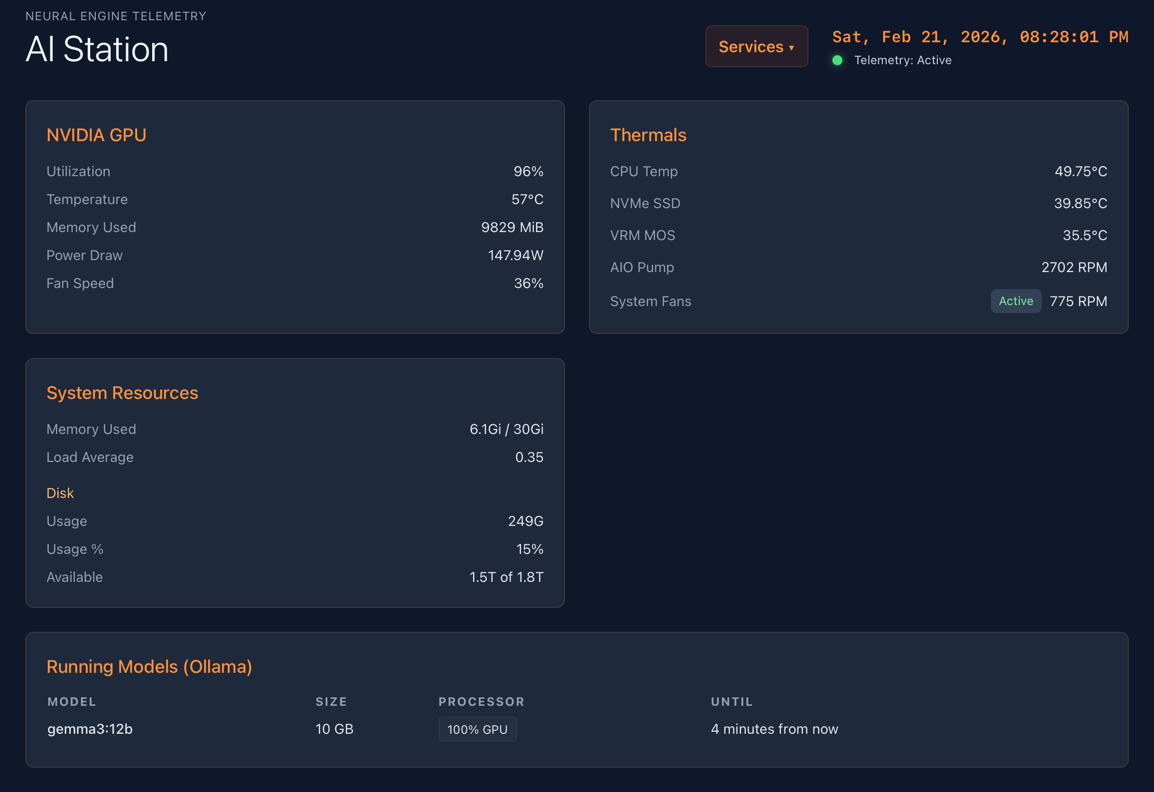
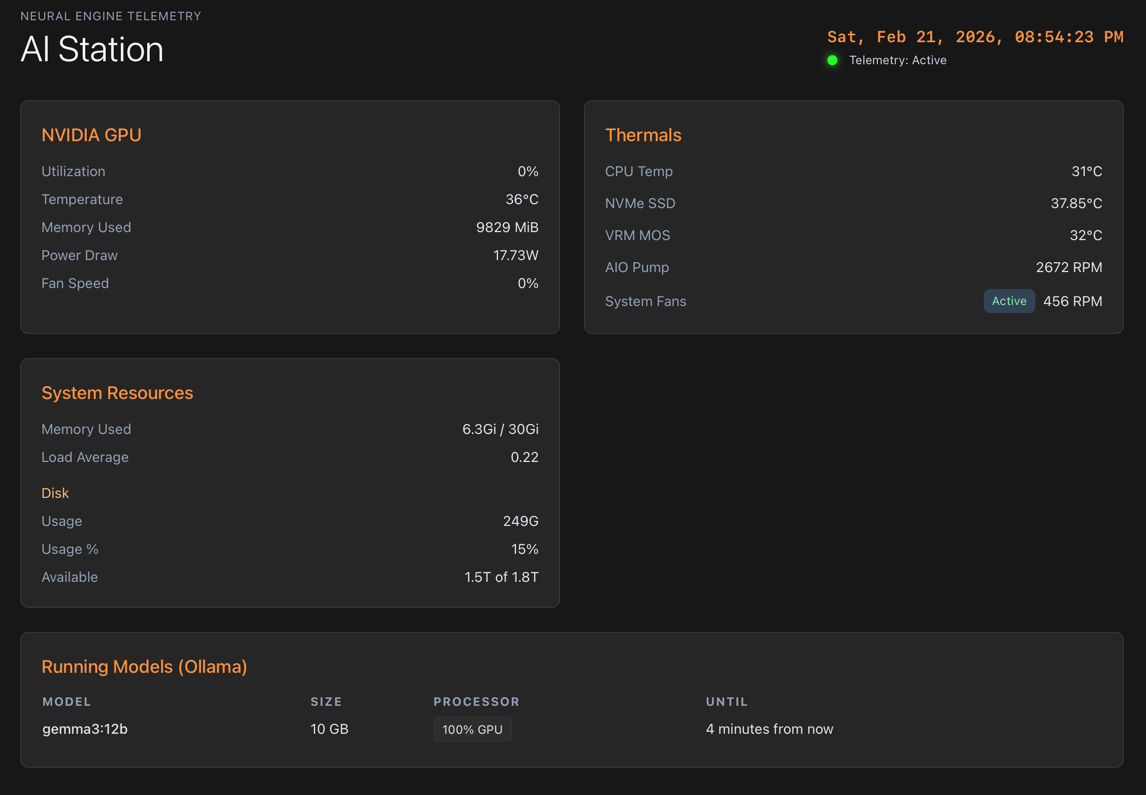
color scheme

diff --git a/public/monitor.html b/public/monitor.html
@@ -16,66 +16,73 @@
             width: 10px;
             height: 10px;
             border-radius: 9999px;
-            background: #94a3b8
+            background: #6b7280;
+            /* gray-500 */
         }
 
         .pulse.active {
-            background: #4ade80;
-            box-shadow: 0 0 8px rgba(74, 222, 128, 0.5)
+            background: #22ff22;
+            /* bright green */
+            box-shadow: 0 0 8px rgba(34, 255, 34, 0.7);
         }
 
         .card-accent {
-            border-color: rgba(251, 146, 60, 0.15);
+            border-color: rgba(156, 163, 175, 0.15);
+            /* gray-400 */
         }
 
         pre {
-            background: #0b1220;
-            color: #e6e6e6
+            background: #18181b;
+            /* zinc-900 */
+            color: #e6e6e6;
         }
 
         .dropdown-content.hidden {
-            display: none
+            display: none;
         }
     </style>
 </head>
 
-<body class="min-h-screen bg-slate-900 text-slate-100 antialiased">
+<body class="min-h-screen bg-neutral-900 text-neutral-100 antialiased">
     <div class="max-w-6xl mx-auto p-6">
-        <header class="flex items-end justify-between mb-8">
-            <div>
-                <div class="text-xs uppercase text-slate-400 tracking-wider">Neural Engine Telemetry</div>
-                <h1 class="text-4xl font-light mt-1">AI Station</h1>
-            </div>
+        <header class="mb-8">
+            <div class="flex flex-col sm:flex-row sm:items-end sm:justify-between gap-4">
+                <div>
+                    <div class="text-xs uppercase text-slate-400 tracking-wider">Neural Engine Telemetry</div>
+                    <h1 class="text-4xl font-light mt-1">AI Station</h1>
+                </div>
 
-            <div class="flex items-center gap-6">
-                <nav class="relative">
-                    <button id="dropbtn"
-                        class="px-3 py-2 bg-orange-600/10 text-orange-400 border border-orange-600/20 rounded-md font-semibold">Services
-                        ▾</button>
-                    <div id="dropdown"
-                        class="absolute right-0 mt-2 w-56 bg-slate-800 border border-slate-700 rounded-md shadow-lg hidden">
-                        <a id="ollama-link" class="block px-4 py-2 text-sm text-slate-100 hover:bg-slate-700"
-                            target="_blank" rel="noopener">Ollama WebUI</a>
-                        <div class="border-t border-slate-700 my-1"></div>
-                        <a class="block px-4 py-2 text-sm text-slate-100 hover:bg-slate-700" href="#">Home Dashboard</a>
-                        <div class="border-t border-slate-700 my-1"></div>
-                        <a class="block px-4 py-2 text-sm text-slate-100 hover:bg-slate-700" href="https://64zbit.com"
-                            target="_blank" rel="noopener">64Zbit Blog</a>
-                    </div>
-                </nav>
+                <div class="flex flex-col sm:flex-row sm:items-center gap-4">
+                    <!-- <nav class="relative">
+                        <button id="dropbtn"
+                            class="px-3 py-2 bg-orange-600/10 text-orange-400 border border-orange-600/20 rounded-md font-semibold">Services
+                            ▾</button>
+                        <div id="dropdown"
+                            class="absolute right-0 mt-2 w-56 bg-slate-800 border border-slate-700 rounded-md shadow-lg hidden">
+                            <a id="ollama-link" class="block px-4 py-2 text-sm text-slate-100 hover:bg-slate-700"
+                                target="_blank" rel="noopener">Ollama WebUI</a>
+                            <div class="border-t border-slate-700 my-1"></div>
+                            <a class="block px-4 py-2 text-sm text-slate-100 hover:bg-slate-700" href="#">Home
+                                Dashboard</a>
+                            <div class="border-t border-slate-700 my-1"></div>
+                            <a class="block px-4 py-2 text-sm text-slate-100 hover:bg-slate-700"
+                                href="https://64zbit.com" target="_blank" rel="noopener">64Zbit Blog</a>
+                        </div>
+                    </nav> -->
 
-                <div class="text-right">
-                    <div id="live-clock" class="font-mono text-orange-400 font-semibold">--</div>
-                    <div class="flex items-center gap-3 text-xs text-slate-400 mt-1">
-                        <span class="pulse" id="pulse-dot"></span>
-                        <span id="status-text">Telemetry: Offline</span>
+                    <div class="text-right">
+                        <div id="live-clock" class="font-mono text-orange-400 font-semibold">--</div>
+                        <div class="flex items-center gap-3 text-xs text-slate-400 mt-1">
+                            <span class="pulse" id="pulse-dot"></span>
+                            <span id="status-text">Telemetry: Offline</span>
+                        </div>
                     </div>
                 </div>
             </div>
         </header>
 
         <main class="grid grid-cols-1 md:grid-cols-2 gap-6">
-            <section class="bg-slate-800 rounded-lg p-5 card-accent border shadow-sm">
+            <section class="bg-neutral-800 rounded-lg p-5 card-accent border shadow-sm">
                 <h2 class="text-orange-400 text-lg font-medium mb-3">NVIDIA GPU</h2>
                 <div class="space-y-2 text-sm text-slate-200">
                     <div class="flex justify-between">
@@ -101,7 +108,7 @@
                 </div>
             </section>
 
-            <section class="bg-slate-800 rounded-lg p-5 card-accent border shadow-sm">
+            <section class="bg-neutral-800 rounded-lg p-5 card-accent border shadow-sm">
                 <h2 class="text-orange-400 text-lg font-medium mb-3">Thermals</h2>
                 <div class="space-y-3 text-sm text-slate-200">
                     <div class="flex justify-between items-center">
@@ -131,7 +138,7 @@
                 </div>
             </section>
 
-            <section class="bg-slate-800 rounded-lg p-5 card-accent border shadow-sm">
+            <section class="bg-neutral-800 rounded-lg p-5 card-accent border shadow-sm">
                 <h2 class="text-orange-400 text-lg font-medium mb-3">System Resources</h2>
                 <div class="space-y-2 text-sm text-slate-200">
                     <div class="flex justify-between">
@@ -161,7 +168,7 @@
                 </div>
             </section>
 
-            <section class="md:col-span-2 bg-slate-800 rounded-lg p-5 card-accent border shadow-sm">
+            <section class="md:col-span-2 bg-neutral-800 rounded-lg p-5 card-accent border shadow-sm">
                 <h2 class="text-orange-400 text-lg font-medium mb-3">Running Models (Ollama)</h2>
                 <div class="overflow-x-auto">
                     <table class="w-full text-sm text-slate-200 table-auto">

diff --git a/public/script.js b/public/script.js
@@ -38,7 +38,7 @@ async function updateStats() {
         // Temps and warnings
         let anyDanger = false;
         if (data.temps) {
-            console.log('Temps data:', data.temps.cpu_temp);
+
 
             const cpu = Number((data.temps.cpu_temp || '0').replace(/[^\d.]/g, ''));
             const cpuEl = document.getElementById('cpu-temp');
@@ -100,10 +100,10 @@ async function updateStats() {
 
 document.addEventListener('DOMContentLoaded', () => {
     // dropdown
-    const btn = document.getElementById('dropbtn');
-    const dd = document.getElementById('dropdown');
-    btn.addEventListener('click', (e) => { e.stopPropagation(); dd.classList.toggle('hidden'); });
-    document.addEventListener('click', () => dd.classList.add('hidden'));
+    // const btn = document.getElementById('dropbtn');
+    // const dd = document.getElementById('dropdown');
+    // btn.addEventListener('click', (e) => { e.stopPropagation(); dd.classList.toggle('hidden'); });
+    // document.addEventListener('click', () => dd.classList.add('hidden'));
 
     updateStats();
     setInterval(updateStats, REFRESH_MS);
